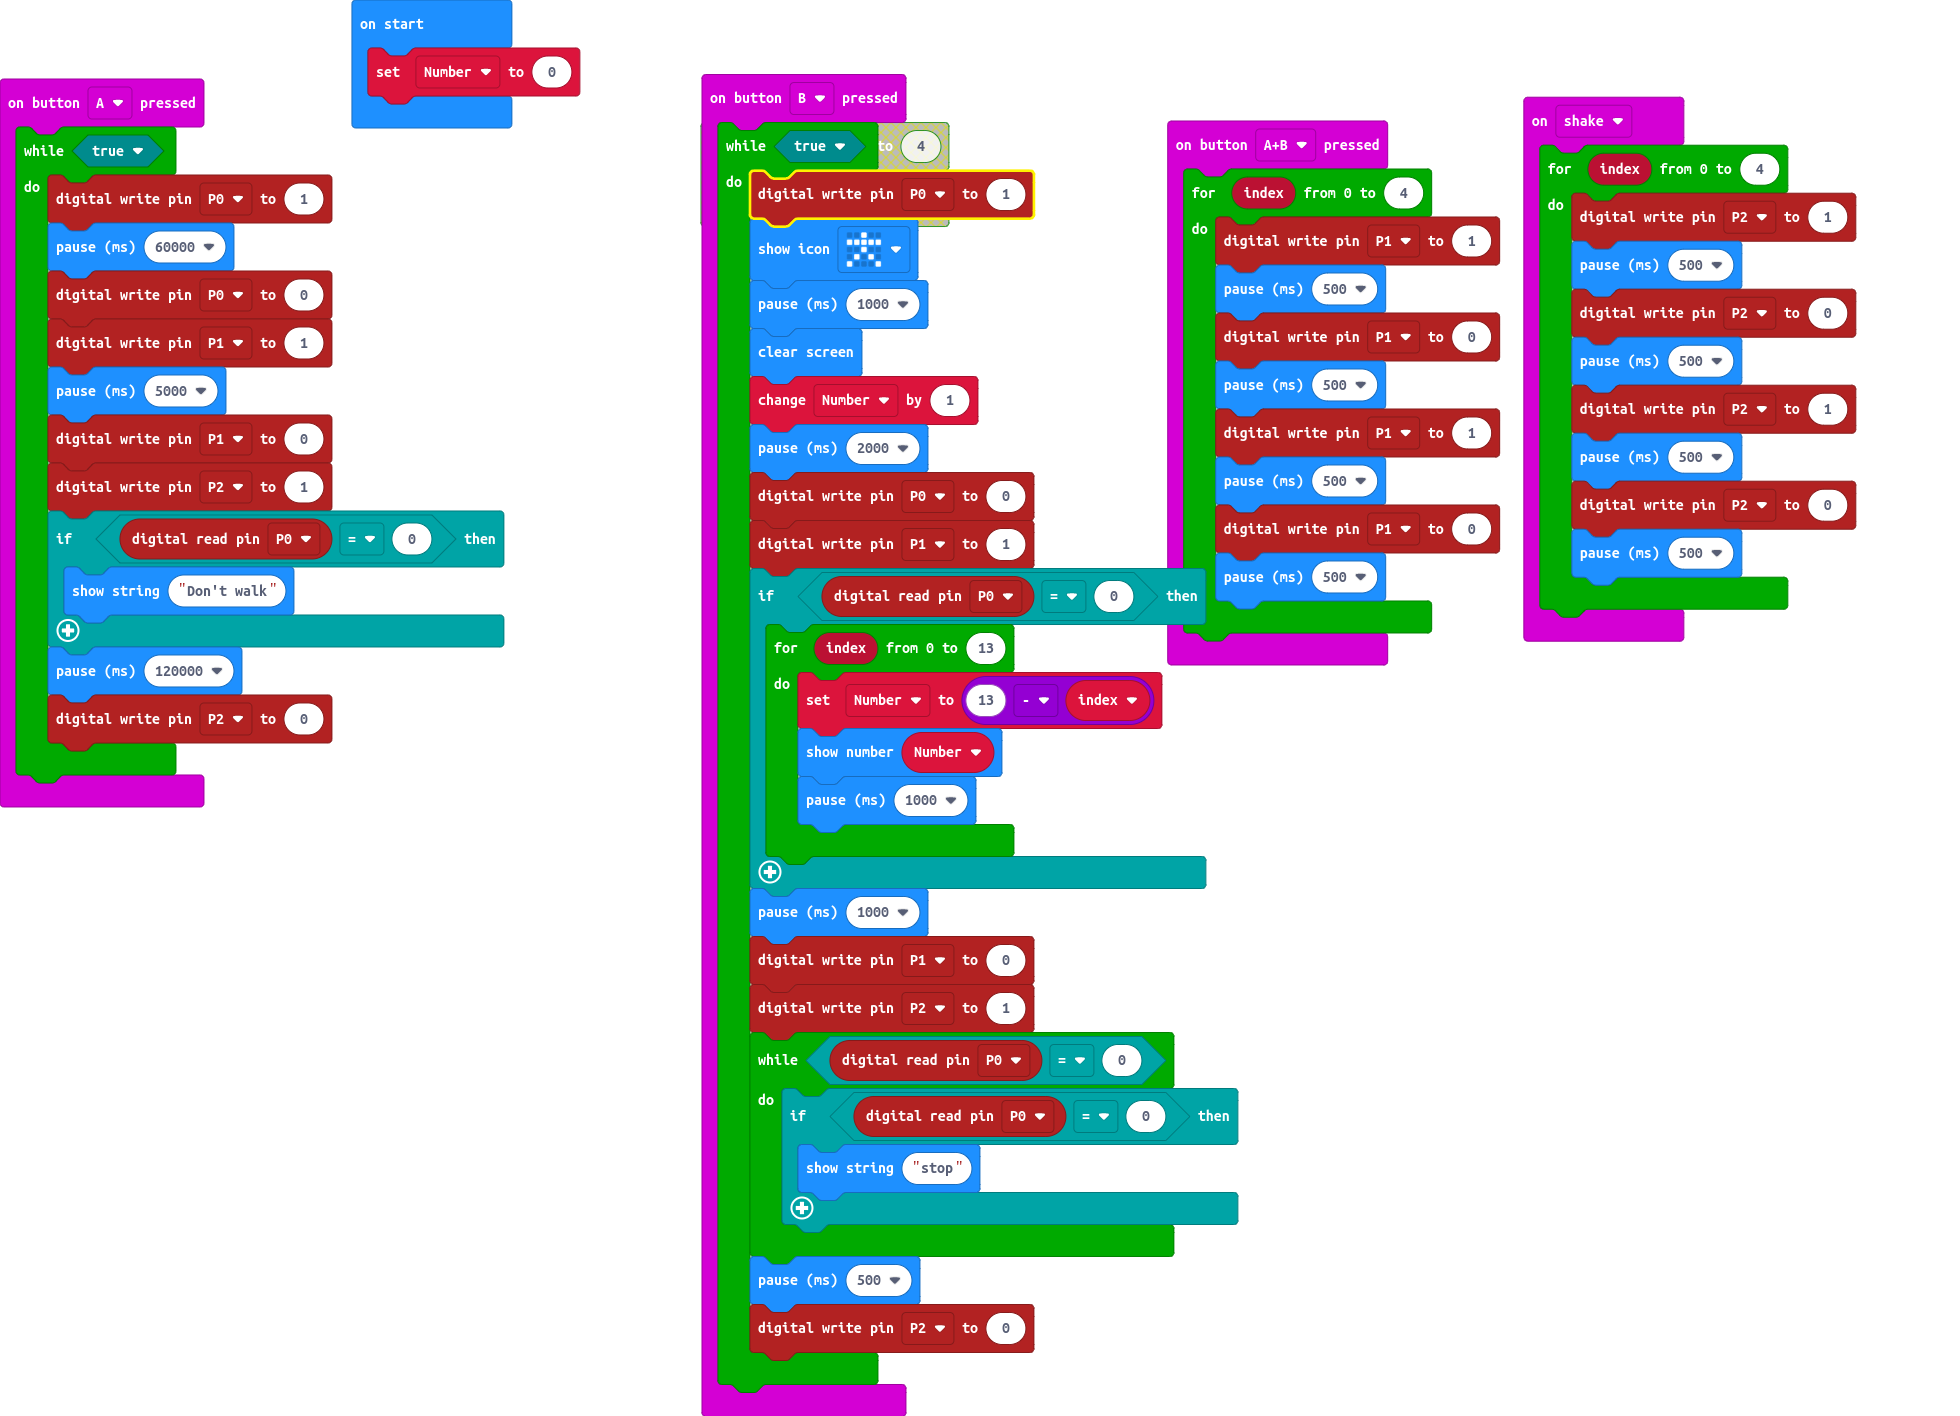
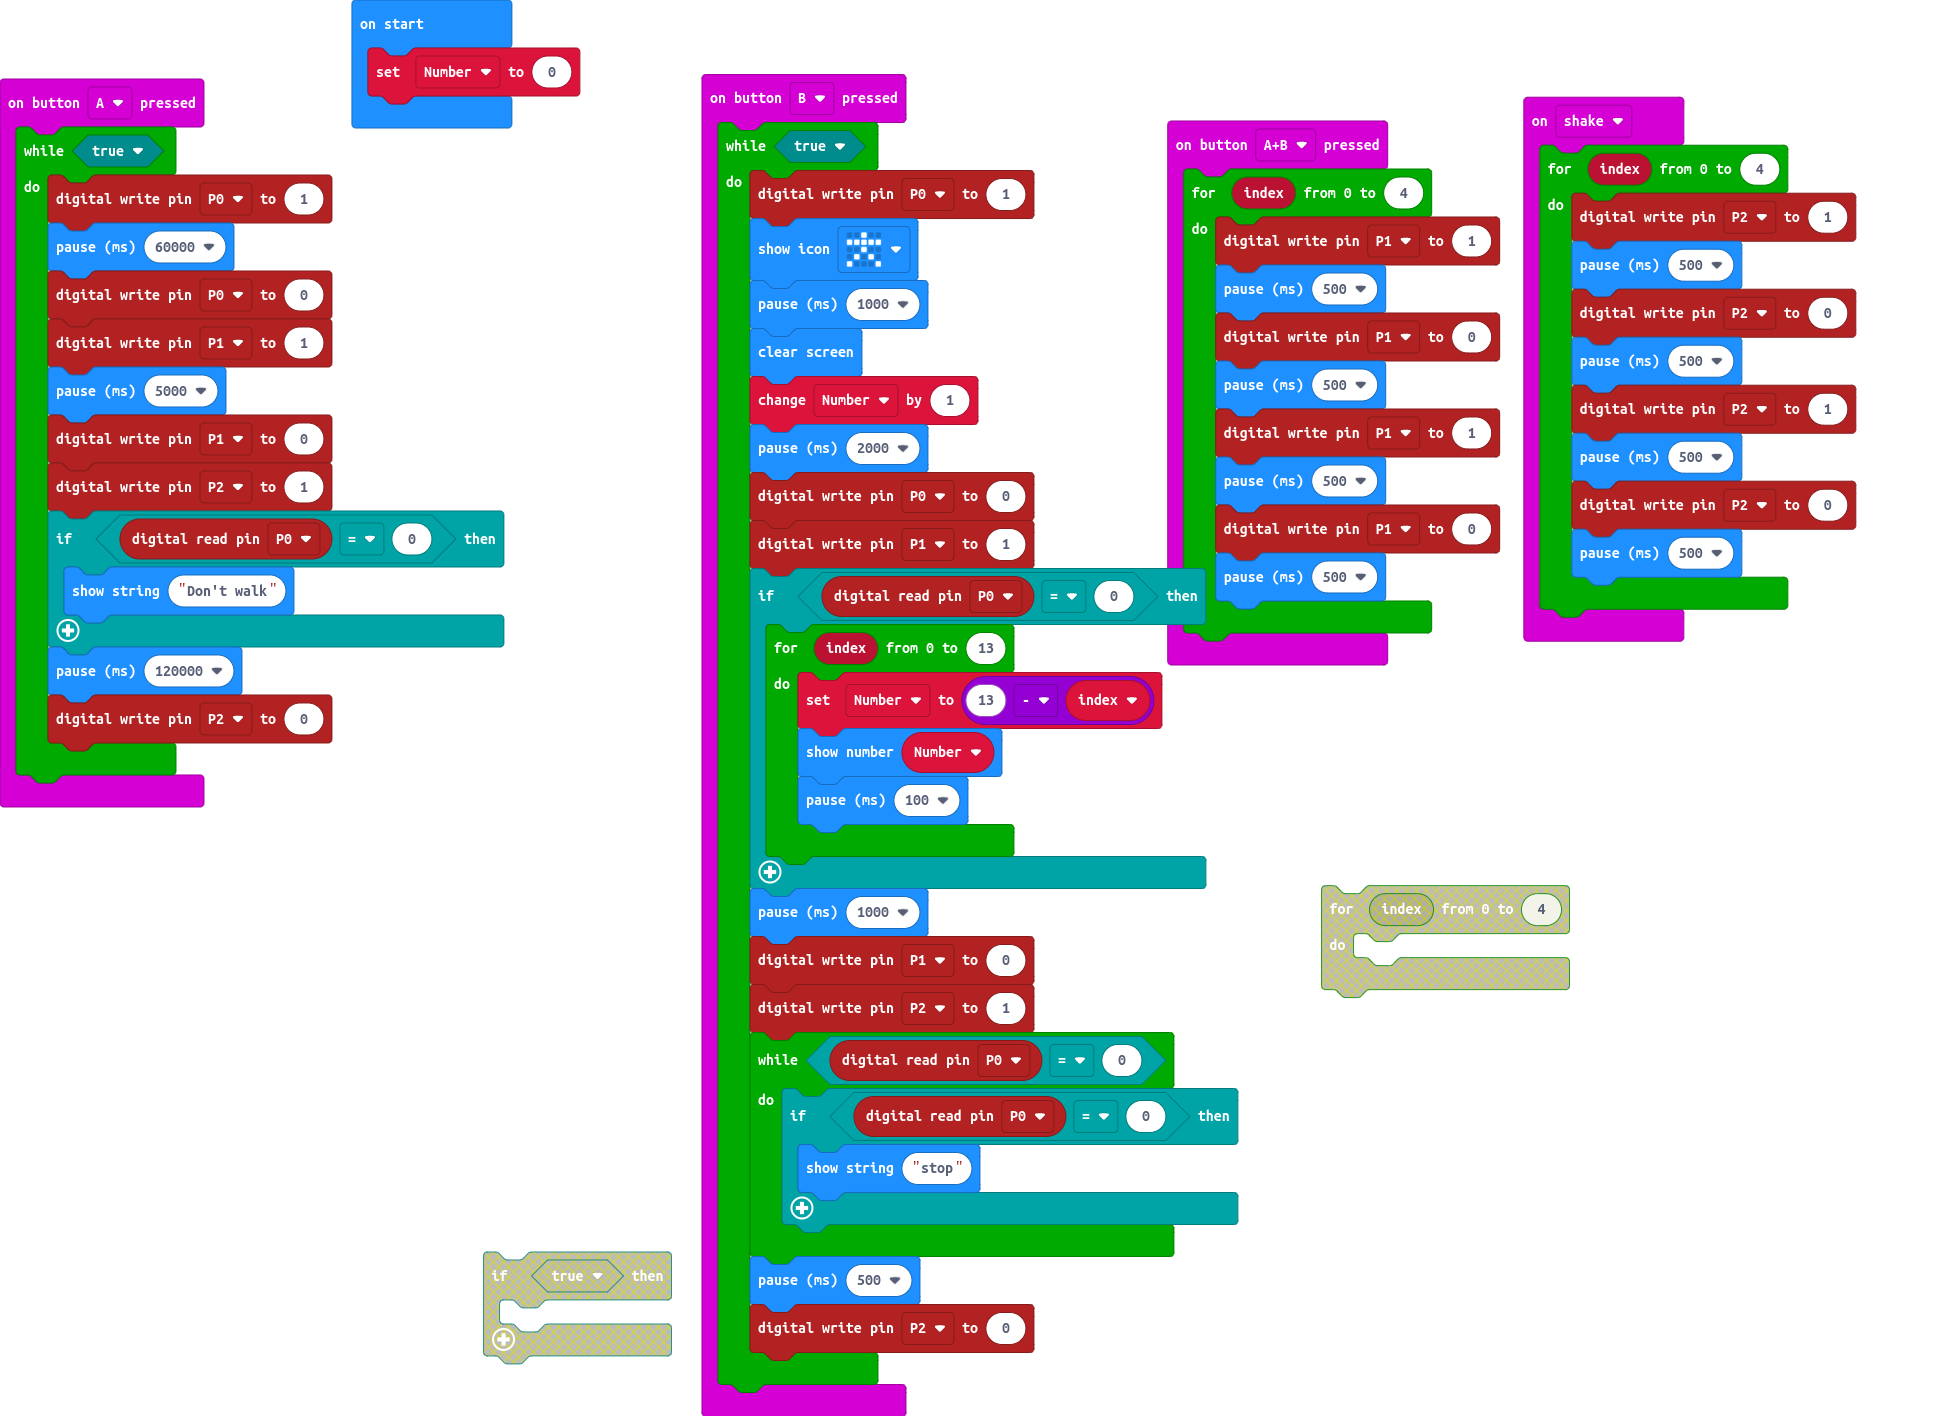
Update main.blocks, main.ts

diff --git a/main.ts b/main.ts
@@ -40,7 +40,7 @@ input.onButtonPressed(Button.B, function () {
             for (let index = 0; index <= 13; index++) {
                 Number2 = 13 - index
                 basic.showNumber(Number2)
-                basic.pause(1000)
+                basic.pause(100)
             }
         }
         basic.pause(1000)
